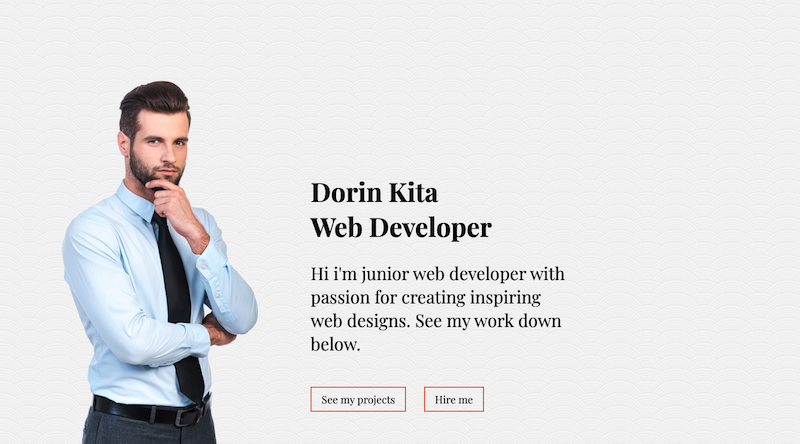
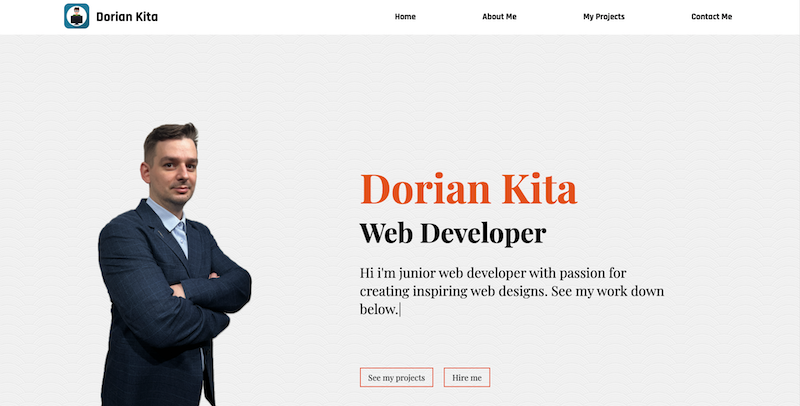
changed photos for official, added few styles fix

diff --git a/css/style.css b/css/style.css
@@ -291,6 +291,7 @@ a{
 
 .about-me-section{
     display: flex;
+    align-items: center;
     margin:auto;
     width: 90%;
 }
@@ -315,10 +316,7 @@ a{
     font-size: 1.2rem;
 }
 
-.photo>img {
-    width: 30vh;
-    height: 30vh;
-}
+
 
 /* future goals section */
 
@@ -500,13 +498,13 @@ a{
 
 .next{
     position: fixed;
-    bottom: 20%;
+    bottom: 15%;
     right: 10%;
 }
 
 .previous{ 
     position: fixed;
-    bottom: 20%;
+    bottom: 15%;
     right: 15%;
 }
 
@@ -783,7 +781,7 @@ footer>a{
     }
 
     .previous, .next {
-        bottom: 26%;
+        bottom: 17%;
     }
     
     .contact {
@@ -802,6 +800,111 @@ footer>a{
         justify-content: space-between;
         width: 95%;
     }
+
+    .projects{
+        margin:5rem auto 0;
+    }
+
+        .icons-container {
+            grid-template-columns: repeat(8, 50px);
+            grid-template-rows: repeat(8, 50px);
+        }
+
+        .icons-container:first-child{
+            margin-top: 5%;
+        }
+    
+        .dev-anim {
+            width: 50%;
+        }
+    
+        .skills-img1 {
+            width: 120px;
+            grid-row: 1;
+            grid-column: 1;
+        }
+    
+        .skills-img2 {
+            width: 100px;
+            grid-row: 3;
+            grid-column: 4;
+        }
+    
+        .skills-img3 {
+            width: 100px;
+            grid-row: 1;
+            grid-column: 7;
+        }
+    
+        .skills-img4 {
+            width: 100px;
+            grid-row: 4;
+            grid-column: 7;
+        }
+    
+        .skills-img5 {
+            width: 70px;
+            grid-row: 5;
+            grid-column: 2;
+        }
+    
+        .skills-img6 {
+            width: 70px;
+            grid-row: 6;
+            grid-column: 5;
+        }
+    
+        .skills-img7 {
+            width: 100px;
+            grid-row: 7;
+            grid-column: 7;
+        }
+    
+        .skills-img8 {
+            width: 100px;
+            grid-row: 7;
+            grid-column: 2;
+        }
+    
+        .goals-img1 {
+            width: 150px;
+            grid-row: 1;
+            grid-column: 4;
+        }
+    
+        .goals-img2 {
+            width: 100px;
+            grid-row: 6;
+            grid-column: 7;
+        }
+    
+        .goals-img3 {
+            width: 100px;
+            grid-row: 2;
+            grid-column: 1;
+        }
+    
+        .goals-img4 {
+            width: 100px;
+            grid-row: 7;
+            grid-column: 4;
+        }
+    
+        .goals-img5 {
+            width: 100px;
+            grid-row: 5;
+            grid-column: 2;
+        }
+    
+        .goals-img6 {
+            width: 70px;
+            grid-row: 3;
+            grid-column: 8;
+        }
+
+        .contact h2{
+            margin-top:5rem
+        }
 }
 
 @media (max-width:1367px) {

diff --git a/index.html b/index.html
@@ -46,7 +46,7 @@
 
       <!-- hero section -->
       <div class="hero">
-        <img src="./img/temp/suit.png" alt="Dorian Kita photo" />
+        <img src="./img/temp/dorian_profile.png" alt="Dorian Kita photo" />
         <div class="hero-text">
           <h1 class="hero-motto">Dorian Kita</h1>
           <h1 class="hero-motto2">Web Developer</h1>
@@ -133,8 +133,8 @@
           <aside class="photo">
             <img
               class="main-photo"
-              src="./img/temp/Zrzut ekranu 2023-08-3 o 19.40.15.png"
-              alt=""
+              src="./img/temp/Temat3.png"
+              alt="Dorian Kita photo"
             />
           </aside>
           <div class="about-me-wrapper">
